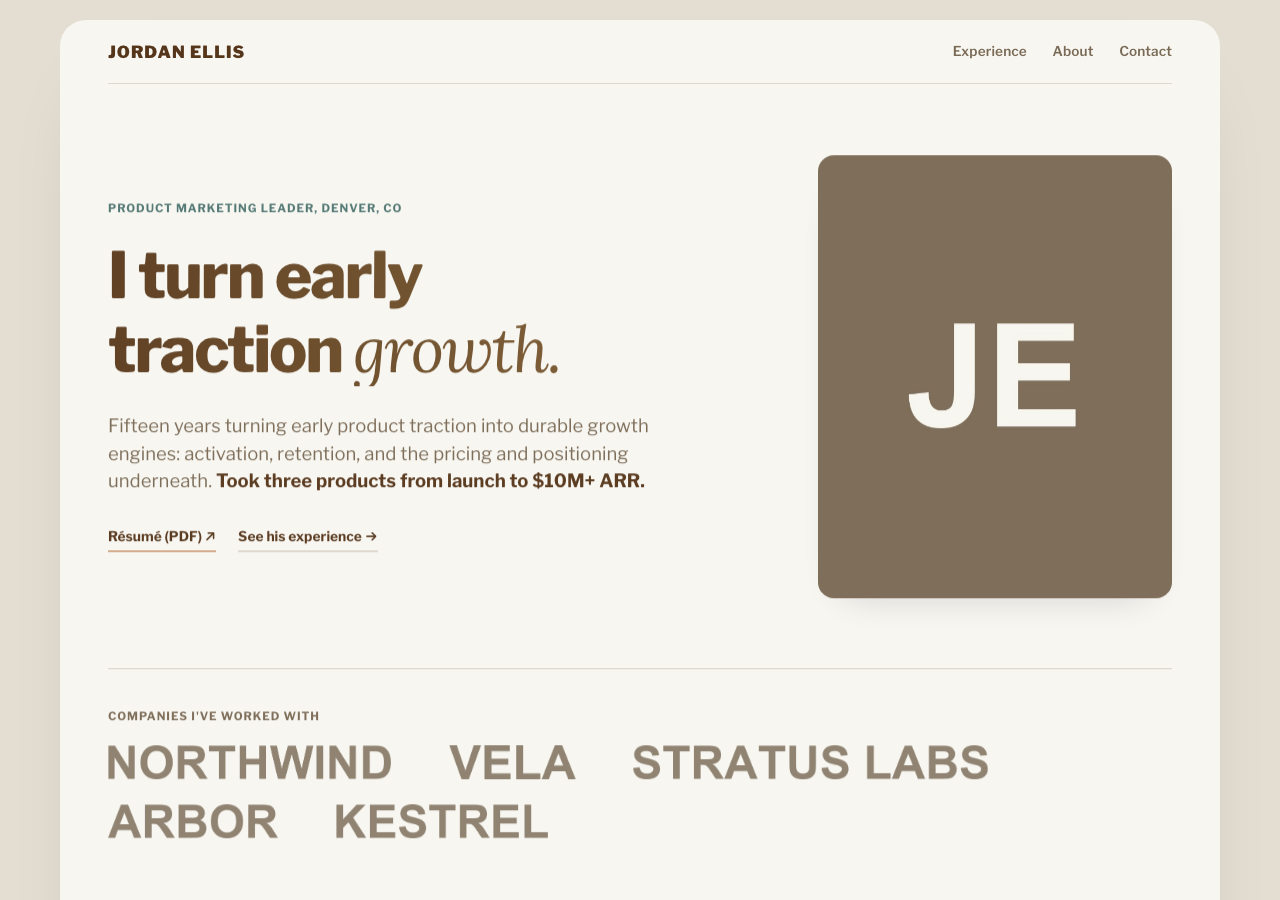
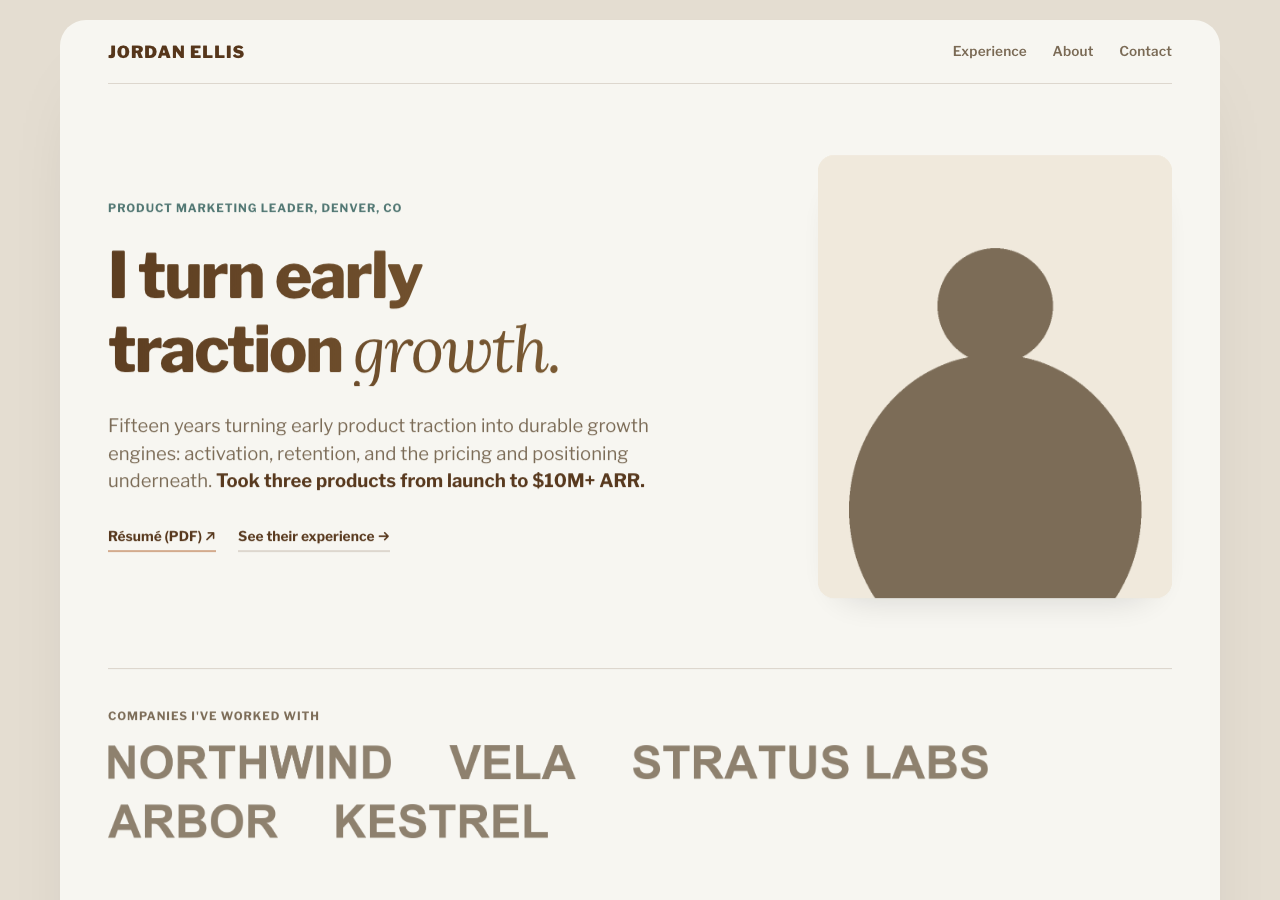
v1.1.1: fix preview-image placeholder photo and a stray pronoun
The placeholder headshot was a flat solid-color box with initials,
reading as a crude design choice rather than an obvious photo
placeholder. Swapped for a generic person-silhouette icon. Also
removed an unnecessary "his" pronoun that had crept into the fictional
demo copy - this skill's own intake rule is to ask pronouns, never
infer them, so a gendered default for an unspecified persona was
inconsistent with its own principles.

Changed region(s): [[0.625, 0.1556, 0.9375, 0.6844], [0.2188, 0.5911, 0.3125, 0.6222]]

diff --git a/CHANGELOG.md b/CHANGELOG.md
@@ -1,5 +1,9 @@
 # Changelog
 
+## v1.1.1 - 2026-08-20
+
+Fixed the new preview image: the placeholder headshot was a flat solid-color box with the demo persona's initials, which read as its own crude design element rather than an obvious "photo goes here" placeholder. Replaced with a generic person-silhouette icon. Also removed an unnecessary gendered pronoun ("his") that had crept into the demo copy for a fictional, unspecified persona - inconsistent with this skill's own intake rule to ask pronouns rather than infer them.
+
 ## v1.1.0 - 2026-08-20
 
 **Behavior change:** Phase 4 (Design) now defaults to a locked, reusable template instead of picking one of three bespoke design systems and composing from scratch. If you pulled this skill before this version and it composed a custom design system per person, that is no longer the default path - see `references/design-systems.md`, now framed as the escape hatch for when the template genuinely doesn't fit.
